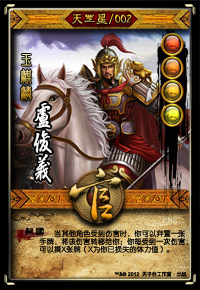
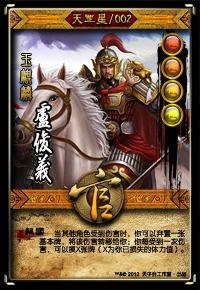
更新智多星卢俊义
24.★燕青能跟死人拼点，崩盘。
32.★燕青AI能跟无手牌的人打擂，崩。
3.指示线太粗（看能不能用V3里的那个）。
21.小牌下面的字太不明显（XXX的判定牌之类那些字），改成白色。

Changed region(s): [[0.18, 0.8069, 0.93, 0.9]]

diff --git a/src/ui/carditem.cpp b/src/ui/carditem.cpp
@@ -34,7 +34,7 @@ CardItem::CardItem(const Card *card)
     frame->hide();
 
     avatar = NULL;
-
+    owner_pixmap = NULL;
     owner_text = new QGraphicsSimpleTextItem(this);
     QPen pen(Qt::black);
     pen.setWidthF(0.5);
@@ -298,24 +298,36 @@ void CardItem::paint(QPainter *painter, const QStyleOptionGraphicsItem *option, 
     if(card){
         painter->drawPixmap(0, 14, cardsuit_pixmap);
         painter->drawPixmap(0, 2, number_pixmap);
+        if(owner_pixmap)painter->drawPixmap(0,0,*owner_pixmap);
     }
 }
 
 
-void CardItem::writeCardDesc(QString desc)
+void CardItem::writeCardDesc(QString card_owner)
 {
      if(card){
-         owner_text->setText(desc);
+         int x, y;
+         x=(93-card_owner.toLocal8Bit().length()*6)/2;
+         y=115;
+         owner_pixmap = new QPixmap(pixmap.size());
+         owner_pixmap->fill(QColor(0,0,0,0));
+         QPainter painter(owner_pixmap);
+         static QFont card_desc_font("SimSun", 9, QFont::Normal);
+         painter.setFont(card_desc_font);
+         painter.setPen(Qt::black);
 
-         QRectF owner_rect = owner_text->boundingRect();
-         qreal x = (pixmap.width() - owner_rect.width())/2;
-         qreal y = pixmap.height() - owner_rect.height() - 7;
+         painter.drawText(x, y-1, card_owner);
+         painter.drawText(x, y+1, card_owner);
+         painter.drawText(x-1, y, card_owner);
+         painter.drawText(x+1, y, card_owner);
 
-         owner_text->setPos(x, y);
-         owner_text->show();
+         painter.setPen(Qt::yellow);
+         painter.drawText(x, y, card_owner);
      }
 }
 
 void CardItem::deleteCardDesc(){
     owner_text->hide();
+    delete owner_pixmap;
+    owner_pixmap = NULL;
 }

diff --git a/src/ui/indicatoritem.cpp b/src/ui/indicatoritem.cpp
@@ -17,7 +17,7 @@ IndicatorItem::IndicatorItem(const QPointF &start, const QPointF &real_finish, P
 
     //setGraphicsEffect(halo);
     color = Sanguosha->getKingdomColor(player->getKingdom());
-    width = player->isLord() ? 4 : 3;
+    width = player->isLord() ? 3 : 2;
 }
 
 void IndicatorItem::doAnimation(){
@@ -62,18 +62,13 @@ void IndicatorItem::paint(QPainter *painter, const QStyleOptionGraphicsItem *opt
     QLinearGradient linearGrad(start - QPoint(baseX,baseY),
                                finish - QPoint(baseX,baseY));
     linearGrad.setColorAt(0, color.darker());
-    linearGrad.setColorAt(1, color.lighter());
+    linearGrad.setColorAt(1, Qt::white);
 
 
     QBrush brush(linearGrad);
     pen.setBrush(brush);
 
     painter->setPen(pen);
-    painter->drawLine(mapFromScene(start), mapFromScene(finish));
-
-    QPen pen2(QColor(200,200,200,130));
-    pen2.setWidth(6);
-    painter->setPen(pen2);
     painter->drawLine(mapFromScene(start), mapFromScene(finish));
 }
 

diff --git a/src/package/standard-generals.cpp b/src/package/standard-generals.cpp
@@ -162,7 +162,7 @@ public:
                 }
             }
             else if(duck != player && !duck->isNude() && damage.damage > 0
-                && room->askForCard(duck, ".", "@baoguo:" + player->objectName() + "::" + QString::number(damage.damage), data, CardDiscarded)){
+                && room->askForCard(duck, "BasicCard", "@baoguo:" + player->objectName() + "::" + QString::number(damage.damage), data, CardDiscarded)){
                 LogMessage log;
                 log.type = "#Baoguo";
                 log.from = duck;
@@ -306,7 +306,7 @@ public:
 
     virtual bool viewFilter(const CardItem *to_select) const{
         const Card *card = to_select->getCard();
-        return card->inherits("TrickCard") || card->inherits("EventsCard");
+        return card->inherits("TrickCard");
     }
 
     virtual const Card *viewAs(CardItem *card_item) const{

diff --git a/src/ui/carditem.h b/src/ui/carditem.h
@@ -63,7 +63,7 @@ protected:
 
 private:
     const Card *card, *filtered_card;
-    QPixmap suit_pixmap, icon_pixmap, number_pixmap, cardsuit_pixmap;
+    QPixmap suit_pixmap, icon_pixmap, number_pixmap, cardsuit_pixmap, *owner_pixmap;
     QGraphicsSimpleTextItem *owner_text;
     QPointF home_pos;
     QGraphicsPixmapItem *frame, *avatar;
